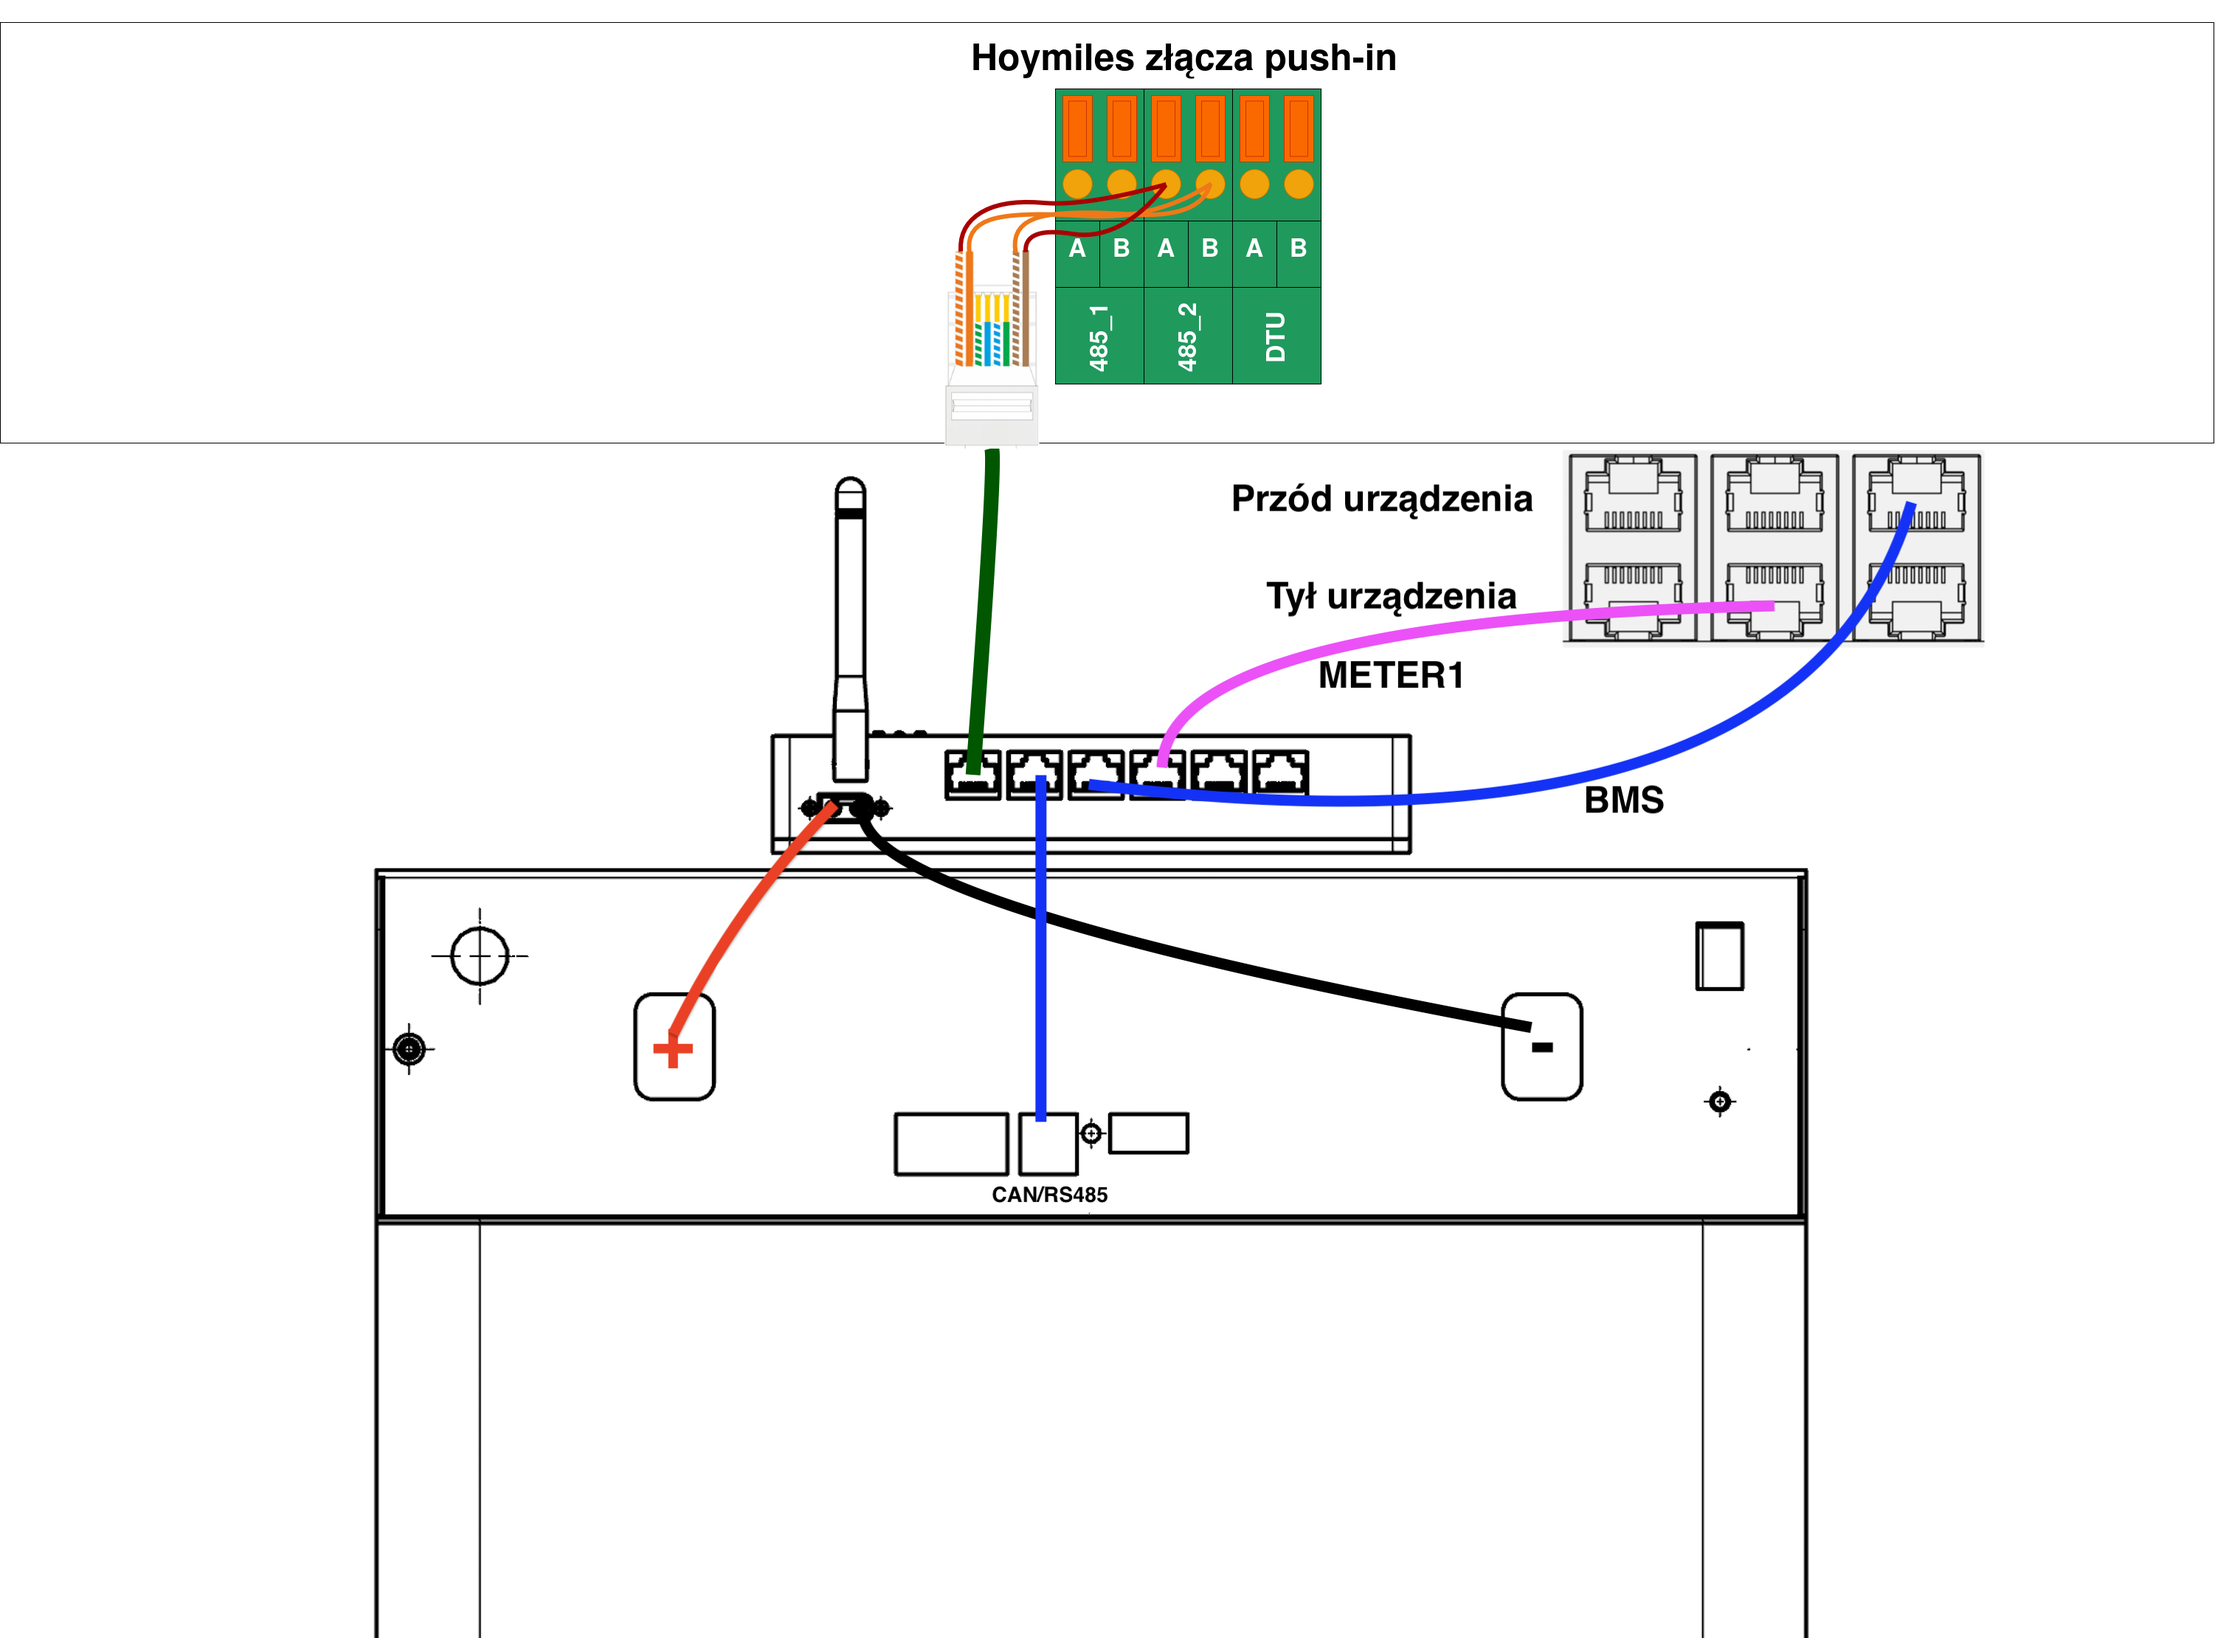
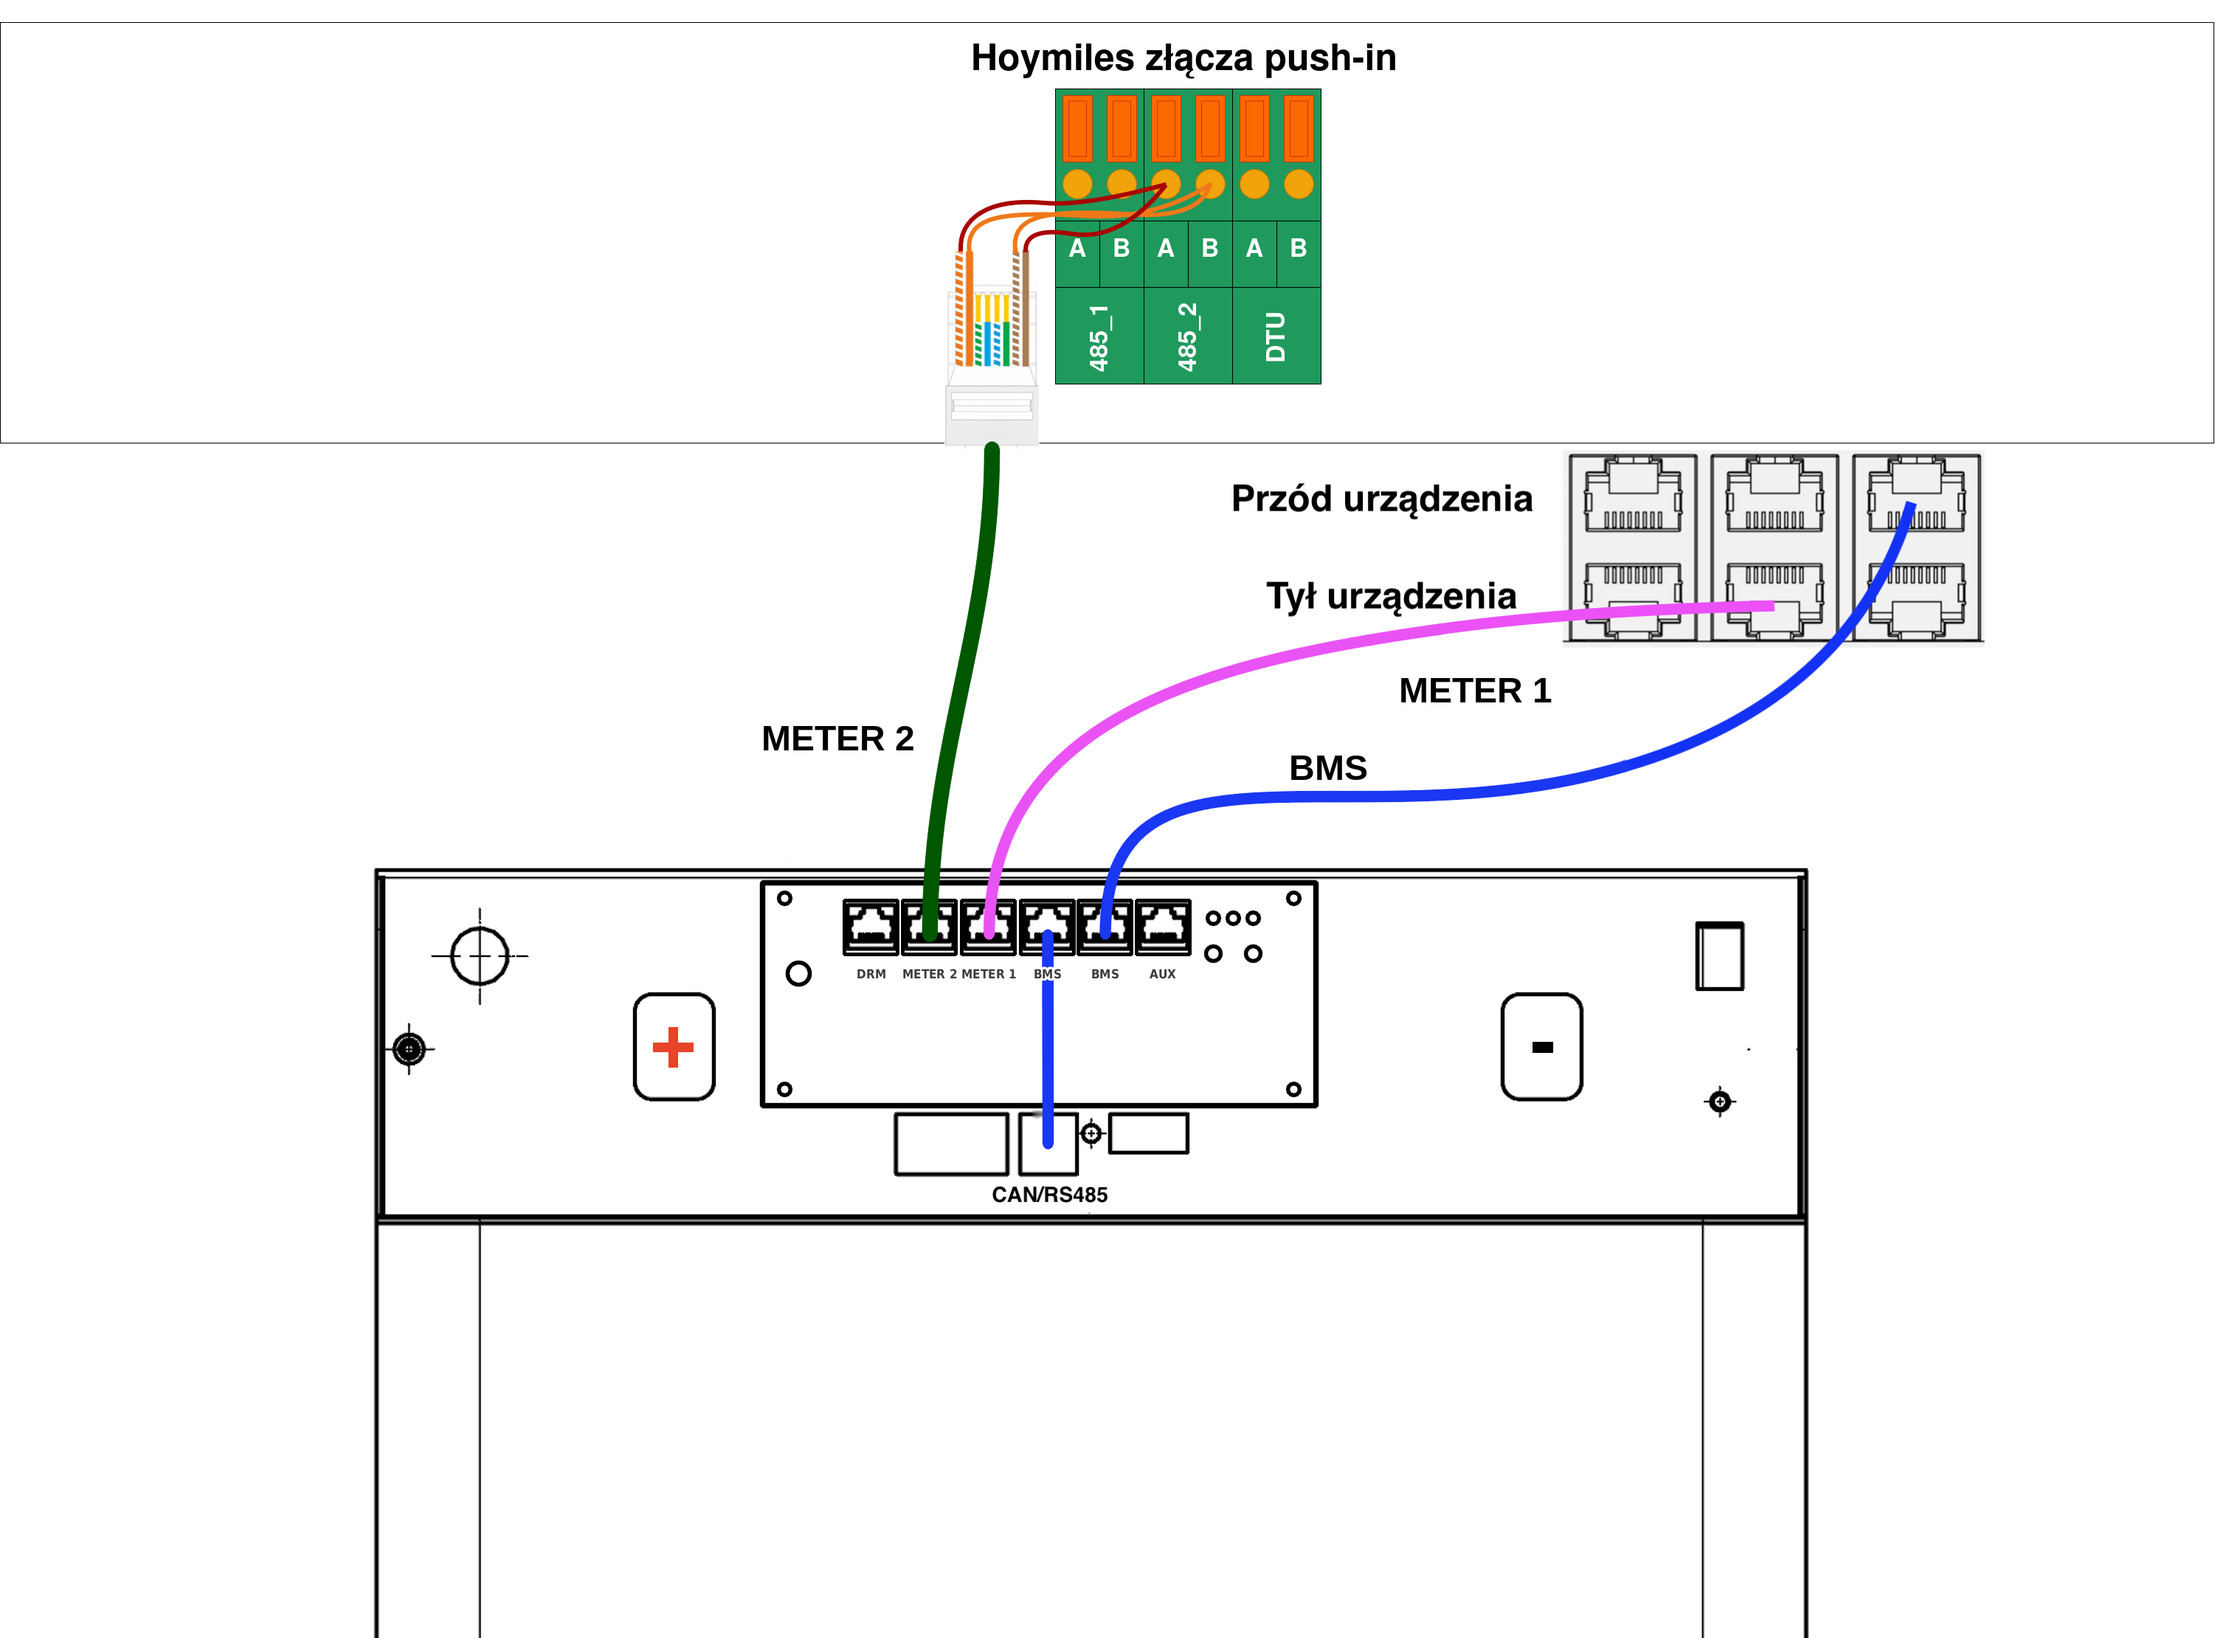
dodano nowe zdiecia do instrukcji EMS

Changed region(s): [[0.3098, 0.2797, 0.7125, 0.7149], [0.7125, 0.4662, 0.7435, 0.4973], [0.2788, 0.6216, 0.3098, 0.6527]]

diff --git a/EMS/instrukcja.html b/EMS/instrukcja.html
@@ -161,15 +161,15 @@
             <div class="step-card">
                 <span class="step-number">Krok 3</span>
                 <h2>Połączenie baterii i falownika</h2>
-                <p>Zwróć uwagę na podłączenie pomiędzy modułem baterii, baterią oraz samym falownikiem. Wykorzystaj złącza w module EMS baterii opisane jako BMS oraz METER2. </p>
-                <img src="../Integrator/img/deye-integrator.png" alt="meter integrator connection" class="step-image">
+                <p>Zwróć uwagę na podłączenie pomiędzy modułem baterii, baterią oraz samym falownikiem. Wykorzystaj złącza w module EMS baterii opisane jako BMS oraz METER 2 na panelu złączy magazynu. </p>
+                <img src="img/ems-deye.png" alt="połączenie modułu EMS (wewnątrz magazynu) z falownikiem Deye" class="step-image">
             </div>
 
             <div class="step-card">
                 <span class="step-number">Krok 4</span>
                 <h2>Parowanie urządzeń</h2>
                 <p>Upewnij się, że wszystkie połączenia elektryczne są poprawnie wykonane oraz, że wszystkie skrętki oraz złącza RJ45 poprawnie przewodzą prąd. Włącz baterię oraz zasilanie w rozdzielni elektryczej. Przytrzymaj zaznaczone przyciski minimum 4 sekundy aż do pojawienia się migających na zielono diód. Zwiększenie częstotliwości migania diód oznacza poprawnie zakończony proces parownia. </p>
-                <img src="../Integrator/img/integrator-pair.png" alt="meter integrator connection" class="step-image">
+                <img src="img/ems-pair.png" alt="parowanie: przycisk na panelu złączy magazynu" class="step-image">
             </div>
             <div class="step-card">
                 <span class="step-number">Krok 5</span>
@@ -209,15 +209,15 @@
             <div class="step-card">
                 <span class="step-number">Krok 3</span>
                 <h2>Połączenie baterii i falownika</h2>
-                <p>Zwróć uwagę na podłączenie pomiędzy modułem baterii, baterią oraz samym falownikiem. Wykorzystaj złącza w module EMS baterii opisane jako BMS oraz METER1. </p>
-                <img src="../Integrator/img/hoymiles-integrator.png" alt="meter integrator connection" class="step-image">
+                <p>Zwróć uwagę na podłączenie pomiędzy modułem baterii, baterią oraz samym falownikiem. Wykorzystaj złącza w module EMS baterii opisane jako BMS oraz METER 1 na panelu złączy magazynu. </p>
+                <img src="img/ems-hoymiles.png" alt="połączenie modułu EMS (wewnątrz magazynu) z falownikiem Hoymiles" class="step-image">
             </div>
 
             <div class="step-card">
                 <span class="step-number">Krok 4</span>
                 <h2>Parowanie urządzeń</h2>
                 <p>Upewnij się, że wszystkie połączenia elektryczne są poprawnie wykonane oraz, że wszystkie skrętki oraz złącza RJ45 poprawnie przewodzą prąd. Włącz baterię oraz zasilanie w rozdzielni elektryczej. Przytrzymaj zaznaczone przyciski minimum 4 sekundy aż do pojawienia się migających na zielono diód. Zwiększenie częstotliwości migania diód oznacza poprawnie zakończony proces parownia. </p>
-                <img src="../Integrator/img/integrator-pair.png" alt="meter integrator connection" class="step-image">
+                <img src="img/ems-pair.png" alt="parowanie: przycisk na panelu złączy magazynu" class="step-image">
             </div>
             <div class="step-card">
                 <span class="step-number">Krok 5</span>
@@ -347,4 +347,4 @@
     </script>
 
 </body>
-</html>
+</html>
